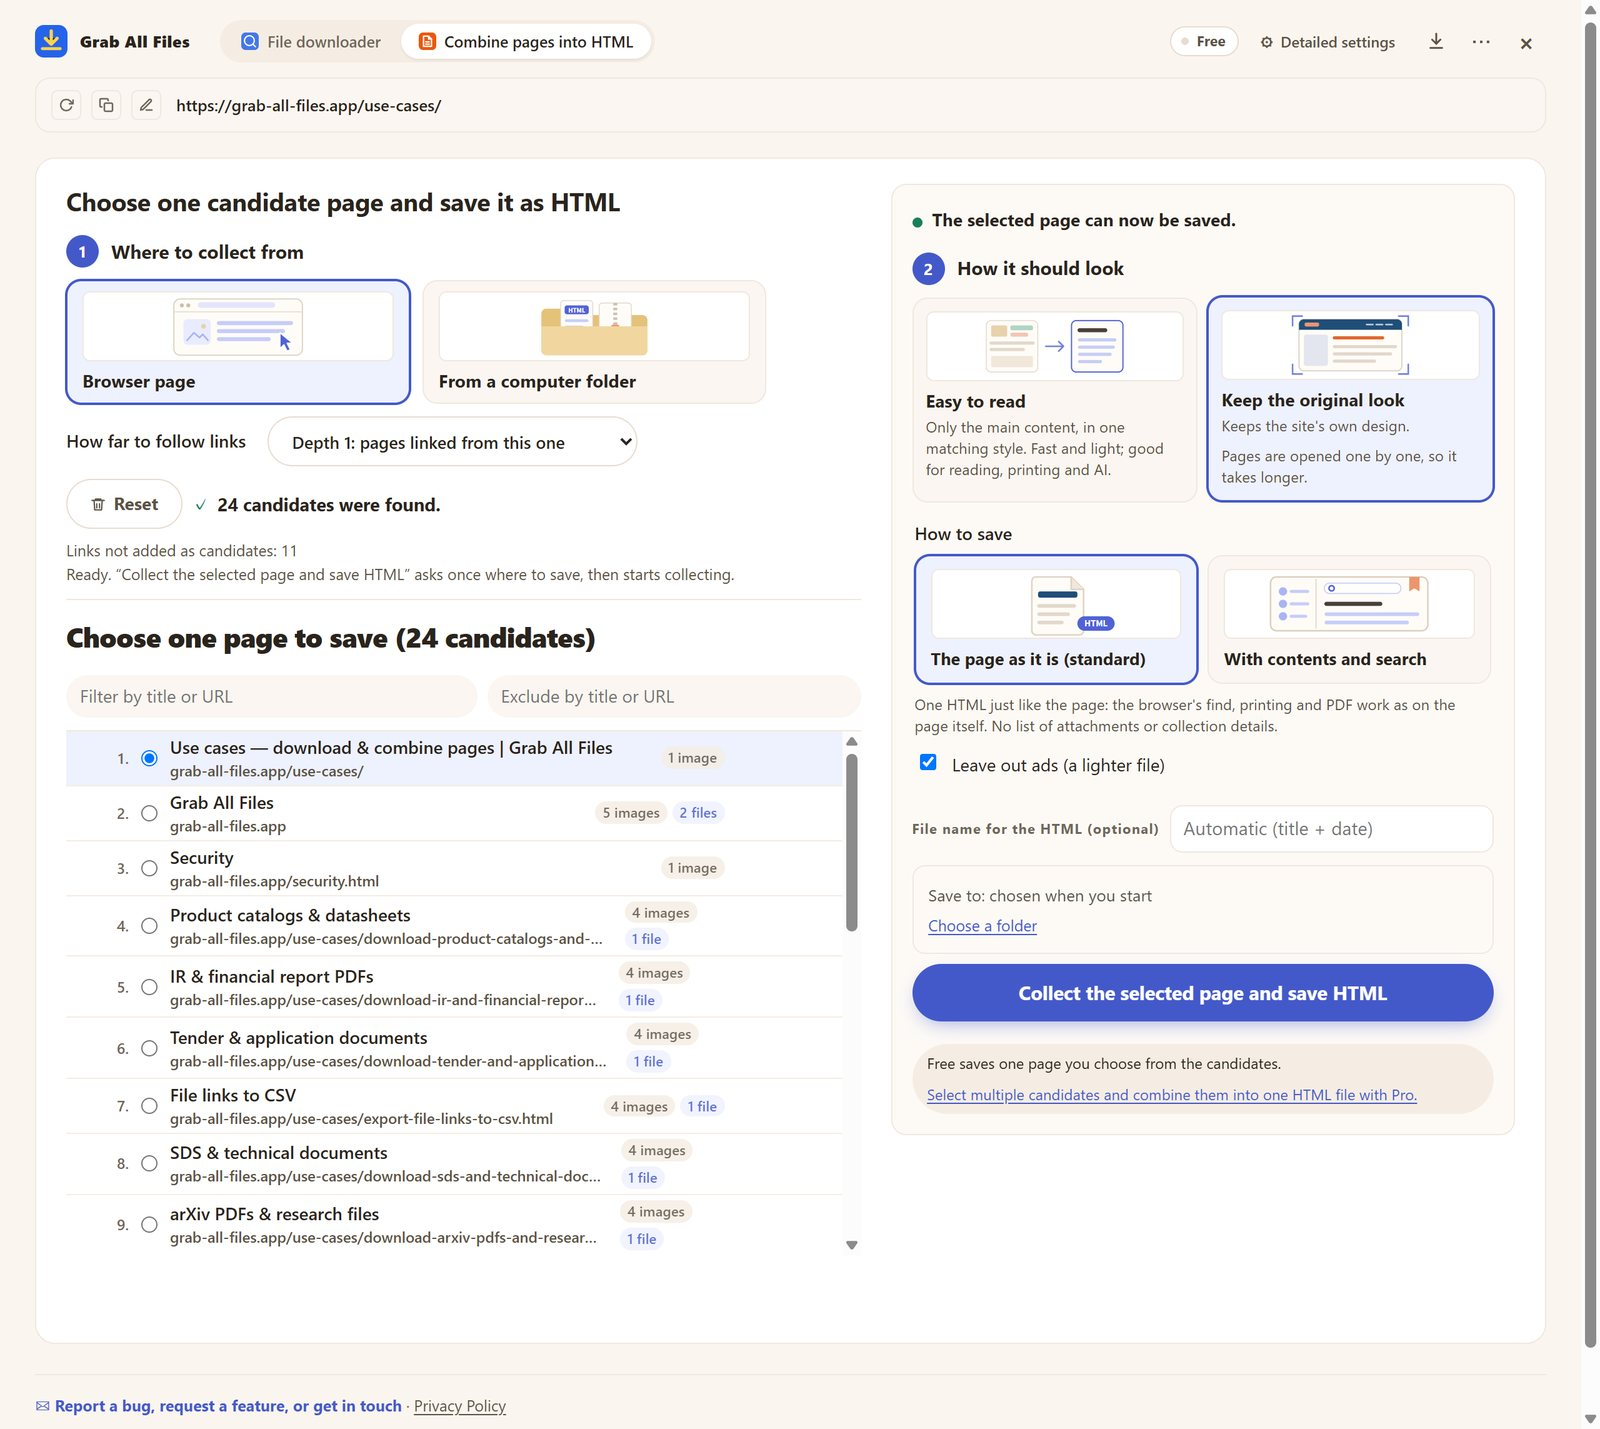
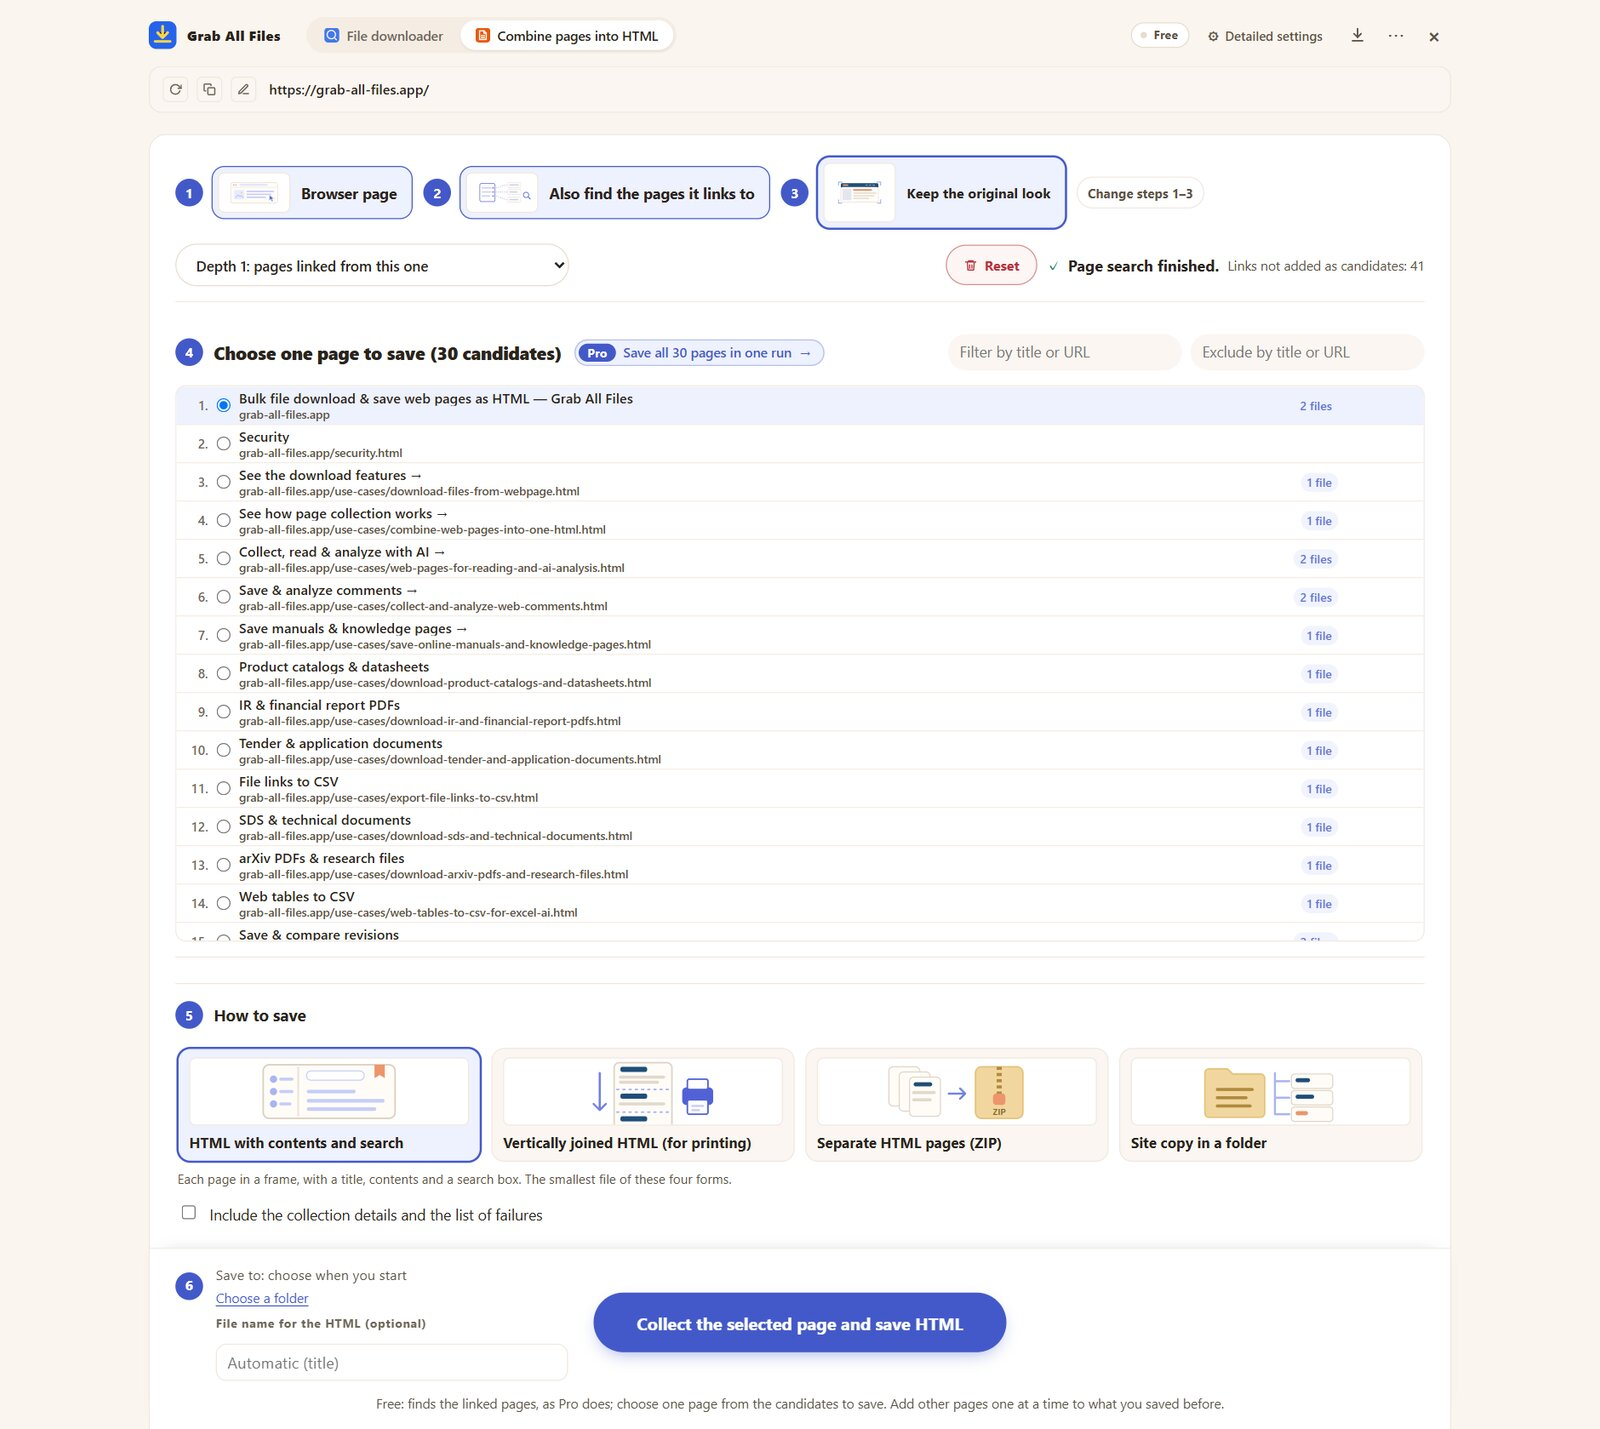
fix(home): 「ページをHTMLにまとめる」の画面写真を現行の画面で撮り直す（10言語）
保存の形4つ・リンク先の候補30件・元の見た目のままの無料プラン画面。1600x1429 に収め、英語の代替テキストの件数を更新。

diff --git a/index.html b/index.html
@@ -1,5 +1,5 @@
 <!DOCTYPE html>
-<!-- generated from _src/index.html by build-locales.mjs; edit that file, not this one; sha256:a5fd1be60eddaaf6af62b91731934bfee61d03a6e55652ba98a19d89cbd48de9 -->
+<!-- generated from _src/index.html by build-locales.mjs; edit that file, not this one; sha256:0aa56244303809594afcf4b66006fb1197a53730adcda2fd8abf38bce6bae1da -->
 <html lang="en">
 <head>
   <script>window.__FORCE_LANG__="en";</script>
@@ -1279,7 +1279,7 @@
             <figcaption><strong>File downloader</strong><span>A real scan: 19 files found. Free saves 10 files per download and marks where this download ends; ZIP, PDF merge and AI hand-off are one click away.</span></figcaption>
           </figure>
           <figure class="product-shot">
-            <a class="shot-zoom" href="/assets/screenshots/collector-en.jpg" target="_blank" rel="noopener"><picture><source type="image/webp" srcset="assets/screenshots/collector-en.webp"><img src="assets/screenshots/collector-en.jpg" width="1600" height="1429" loading="lazy" decoding="async" alt="Grab All Files Combine pages into HTML in the Free view: 24 candidate pages with one selected, and the Look choice set to Keep the original look"></picture></a>
+            <a class="shot-zoom" href="/assets/screenshots/collector-en.jpg" target="_blank" rel="noopener"><picture><source type="image/webp" srcset="assets/screenshots/collector-en.webp"><img src="assets/screenshots/collector-en.jpg" width="1600" height="1429" loading="lazy" decoding="async" alt="Grab All Files Combine pages into HTML in the Free view: 30 candidate pages with one selected, and the Look choice set to Keep the original look"></picture></a>
             <figcaption><strong>Combine pages into HTML</strong><span>Free saves one chosen page per run, with its original look if you like; Pro selects several candidates and combines them into one HTML.</span></figcaption>
           </figure>
         </div>

diff --git a/_src/index.html b/_src/index.html
@@ -1449,7 +1449,7 @@
             <figcaption><strong>File downloader</strong><span>A real scan: 19 files found. Free saves 10 files per download and marks where this download ends; ZIP, PDF merge and AI hand-off are one click away.</span></figcaption>
           </figure>
           <figure class="product-shot">
-            <a class="shot-zoom" href="/assets/screenshots/collector-en.jpg" target="_blank" rel="noopener"><picture><source type="image/webp" srcset="assets/screenshots/collector-en.webp"><img src="assets/screenshots/collector-en.jpg" width="1600" height="1429" loading="lazy" decoding="async" alt="Grab All Files Combine pages into HTML in the Free view: 24 candidate pages with one selected, and the Look choice set to Keep the original look"></picture></a>
+            <a class="shot-zoom" href="/assets/screenshots/collector-en.jpg" target="_blank" rel="noopener"><picture><source type="image/webp" srcset="assets/screenshots/collector-en.webp"><img src="assets/screenshots/collector-en.jpg" width="1600" height="1429" loading="lazy" decoding="async" alt="Grab All Files Combine pages into HTML in the Free view: 30 candidate pages with one selected, and the Look choice set to Keep the original look"></picture></a>
             <figcaption><strong>Combine pages into HTML</strong><span>Free saves one chosen page per run, with its original look if you like; Pro selects several candidates and combines them into one HTML.</span></figcaption>
           </figure>
         </div>

diff --git a/pt_BR/index.html b/pt_BR/index.html
@@ -167,6 +167,7 @@
   }
   </script>
 
+
   <script type="application/ld+json">
   {
     "@context": "https://schema.org",
@@ -190,6 +191,7 @@
     ]
   }
   </script>
+
 
   <script type="application/ld+json">
   {
@@ -361,6 +363,7 @@
   }
   </script>
 
+
   <script type="application/ld+json">
   {
     "@context": "https://schema.org",
@@ -392,6 +395,7 @@
   }
   </script>
 
+
   <script type="application/ld+json">
   {
     "@context": "https://schema.org",
@@ -421,6 +425,7 @@
     "inLanguage": "pt-BR"
   }
   </script>
+
 
   <style>
     :root {

diff --git a/zh_CN/index.html b/zh_CN/index.html
@@ -167,6 +167,7 @@
   }
   </script>
 
+
   <script type="application/ld+json">
   {
     "@context": "https://schema.org",
@@ -190,6 +191,7 @@
     ]
   }
   </script>
+
 
   <script type="application/ld+json">
   {
@@ -361,6 +363,7 @@
   }
   </script>
 
+
   <script type="application/ld+json">
   {
     "@context": "https://schema.org",
@@ -392,6 +395,7 @@
   }
   </script>
 
+
   <script type="application/ld+json">
   {
     "@context": "https://schema.org",
@@ -421,6 +425,7 @@
     "inLanguage": "zh-CN"
   }
   </script>
+
 
   <style>
     :root {

diff --git a/zh_TW/index.html b/zh_TW/index.html
@@ -167,6 +167,7 @@
   }
   </script>
 
+
   <script type="application/ld+json">
   {
     "@context": "https://schema.org",
@@ -190,6 +191,7 @@
     ]
   }
   </script>
+
 
   <script type="application/ld+json">
   {
@@ -361,6 +363,7 @@
   }
   </script>
 
+
   <script type="application/ld+json">
   {
     "@context": "https://schema.org",
@@ -392,6 +395,7 @@
   }
   </script>
 
+
   <script type="application/ld+json">
   {
     "@context": "https://schema.org",
@@ -421,6 +425,7 @@
     "inLanguage": "zh-TW"
   }
   </script>
+
 
   <style>
     :root {

diff --git a/de/index.html b/de/index.html
@@ -167,6 +167,7 @@
   }
   </script>
 
+
   <script type="application/ld+json">
   {
     "@context": "https://schema.org",
@@ -190,6 +191,7 @@
     ]
   }
   </script>
+
 
   <script type="application/ld+json">
   {
@@ -361,6 +363,7 @@
   }
   </script>
 
+
   <script type="application/ld+json">
   {
     "@context": "https://schema.org",
@@ -392,6 +395,7 @@
   }
   </script>
 
+
   <script type="application/ld+json">
   {
     "@context": "https://schema.org",
@@ -421,6 +425,7 @@
     "inLanguage": "de"
   }
   </script>
+
 
   <style>
     :root {

diff --git a/es/index.html b/es/index.html
@@ -167,6 +167,7 @@
   }
   </script>
 
+
   <script type="application/ld+json">
   {
     "@context": "https://schema.org",
@@ -190,6 +191,7 @@
     ]
   }
   </script>
+
 
   <script type="application/ld+json">
   {
@@ -361,6 +363,7 @@
   }
   </script>
 
+
   <script type="application/ld+json">
   {
     "@context": "https://schema.org",
@@ -392,6 +395,7 @@
   }
   </script>
 
+
   <script type="application/ld+json">
   {
     "@context": "https://schema.org",
@@ -421,6 +425,7 @@
     "inLanguage": "es"
   }
   </script>
+
 
   <style>
     :root {

diff --git a/fr/index.html b/fr/index.html
@@ -167,6 +167,7 @@
   }
   </script>
 
+
   <script type="application/ld+json">
   {
     "@context": "https://schema.org",
@@ -190,6 +191,7 @@
     ]
   }
   </script>
+
 
   <script type="application/ld+json">
   {
@@ -361,6 +363,7 @@
   }
   </script>
 
+
   <script type="application/ld+json">
   {
     "@context": "https://schema.org",
@@ -392,6 +395,7 @@
   }
   </script>
 
+
   <script type="application/ld+json">
   {
     "@context": "https://schema.org",
@@ -421,6 +425,7 @@
     "inLanguage": "fr"
   }
   </script>
+
 
   <style>
     :root {

diff --git a/it/index.html b/it/index.html
@@ -167,6 +167,7 @@
   }
   </script>
 
+
   <script type="application/ld+json">
   {
     "@context": "https://schema.org",
@@ -190,6 +191,7 @@
     ]
   }
   </script>
+
 
   <script type="application/ld+json">
   {
@@ -361,6 +363,7 @@
   }
   </script>
 
+
   <script type="application/ld+json">
   {
     "@context": "https://schema.org",
@@ -392,6 +395,7 @@
   }
   </script>
 
+
   <script type="application/ld+json">
   {
     "@context": "https://schema.org",
@@ -421,6 +425,7 @@
     "inLanguage": "it"
   }
   </script>
+
 
   <style>
     :root {

diff --git a/ja/index.html b/ja/index.html
@@ -167,6 +167,7 @@
   }
   </script>
 
+
   <script type="application/ld+json">
   {
     "@context": "https://schema.org",
@@ -190,6 +191,7 @@
     ]
   }
   </script>
+
 
   <script type="application/ld+json">
   {
@@ -361,6 +363,7 @@
   }
   </script>
 
+
   <script type="application/ld+json">
   {
     "@context": "https://schema.org",
@@ -392,6 +395,7 @@
   }
   </script>
 
+
   <script type="application/ld+json">
   {
     "@context": "https://schema.org",
@@ -421,6 +425,7 @@
     "inLanguage": "ja"
   }
   </script>
+
 
   <style>
     :root {

diff --git a/ko/index.html b/ko/index.html
@@ -167,6 +167,7 @@
   }
   </script>
 
+
   <script type="application/ld+json">
   {
     "@context": "https://schema.org",
@@ -190,6 +191,7 @@
     ]
   }
   </script>
+
 
   <script type="application/ld+json">
   {
@@ -361,6 +363,7 @@
   }
   </script>
 
+
   <script type="application/ld+json">
   {
     "@context": "https://schema.org",
@@ -392,6 +395,7 @@
   }
   </script>
 
+
   <script type="application/ld+json">
   {
     "@context": "https://schema.org",
@@ -421,6 +425,7 @@
     "inLanguage": "ko"
   }
   </script>
+
 
   <style>
     :root {
